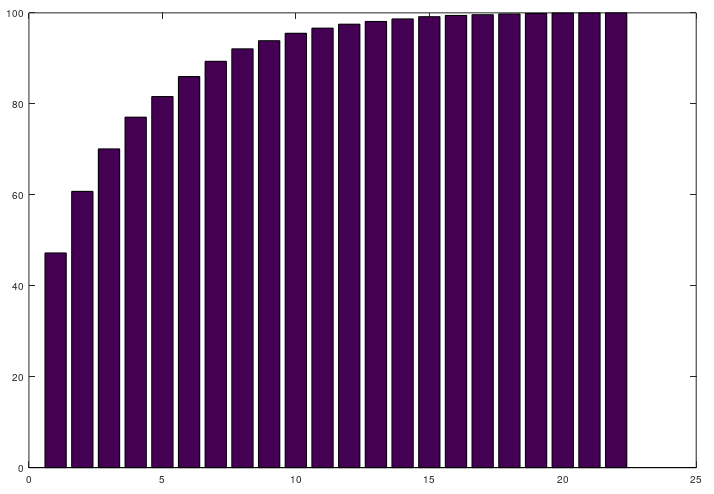
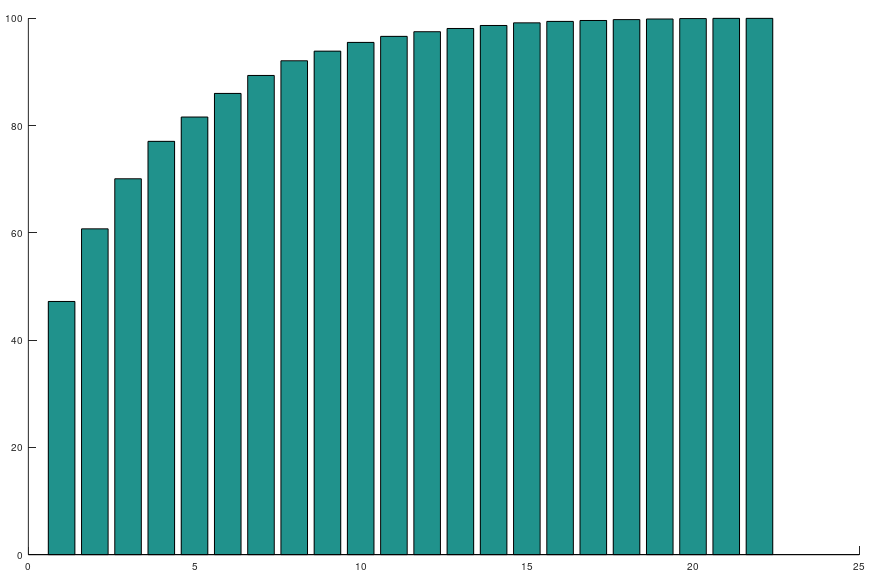
Graphiques PCA (faux du coup)

diff --git a/Projet2/main2.m b/Projet2/main2.m
@@ -116,8 +116,8 @@ disp(E);
 #bar(diag(D));
 figure(7);
 bar(percentInfo);
+
 figure(8);
-hold on
 bar(cumulInfo);
 
 finalValues = Xnorm*E;
